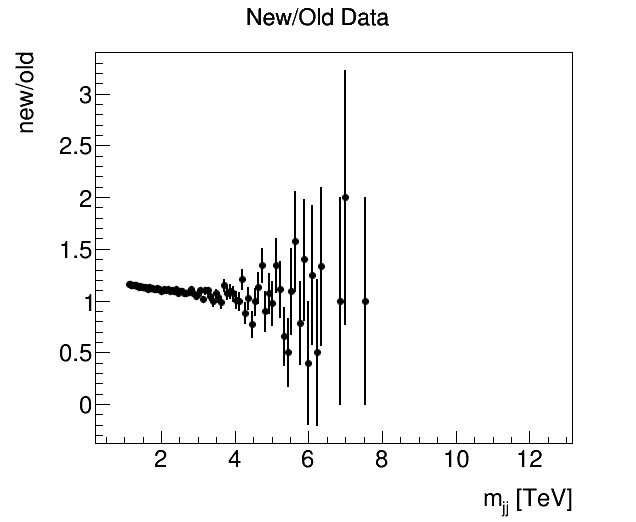
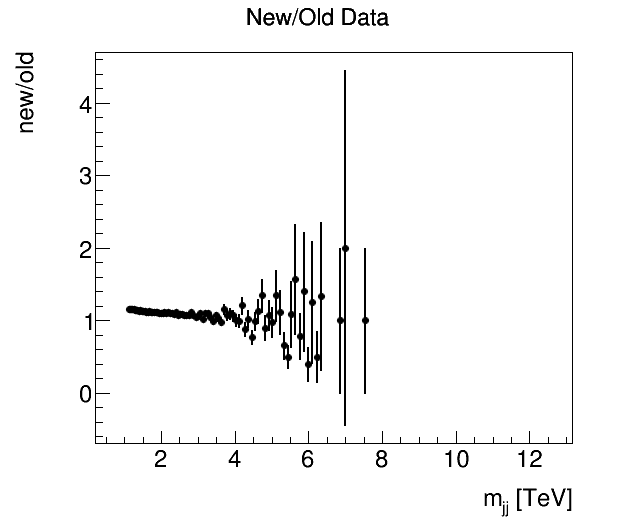
Add code for cmp_old_new.py and fix plot error sizes

diff --git a/week16/cmp_old_new.py b/week16/cmp_old_new.py
@@ -1,0 +1,49 @@
+from __future__ import print_function, division
+
+import sys
+import os
+import os.path as op
+from array import array
+from operator import itemgetter
+import math
+
+import ROOT
+from ROOT import TH1D, TCanvas, gROOT, gPad, TGraph, TGraphErrors, TGraphAsymmErrors, TMultiGraph, TFile, TRandom
+
+gROOT.SetBatch(True)
+
+
+root_file_old = TFile.Open("data/mjj_data15_13TeV_00276262_physics_Main_total_final.root")
+hist_old = root_file_old.Get("mjj_data15_13TeV_00276262_physics_Main_total_final")
+
+root_file_new = TFile.Open("data/mjj_data_new.root")
+hist_new = root_file_new.Get("mjj_data17_13TeV_00325713_physics_Main_total_final")
+
+hist_cmp = TH1D(hist_new)
+
+n_bins = hist_old.GetNbinsX()
+for b in range(1, n_bins+1):
+    data_old = hist_old.GetBinContent(b)
+    data_new = hist_new.GetBinContent(b)
+
+    err_old = hist_old.GetBinError(b)
+    err_new = hist_new.GetBinError(b)
+    if data_new == 0 or data_old == 0:
+        continue
+
+    data_cmp = data_new/data_old
+    err_cmp = (data_new/data_old)*math.sqrt((err_old/data_old)**2 + (err_new/data_new)**2)
+
+    hist_cmp.SetBinContent(b, data_cmp)
+    hist_cmp.SetBinError(b, err_cmp)
+
+canvas = TCanvas("new/old data", "new/old data", 640, 550)
+canvas.SetBottomMargin(0.15)
+canvas.SetLeftMargin(0.15)
+
+hist_cmp.GetYaxis().SetTitle("new/old")
+hist_cmp.SetTitle("New/Old Data")
+hist_cmp.Draw("E")
+
+canvas.SaveAs("data_cmp.png")
+canvas.SaveAs("data_cmp.pdf")
